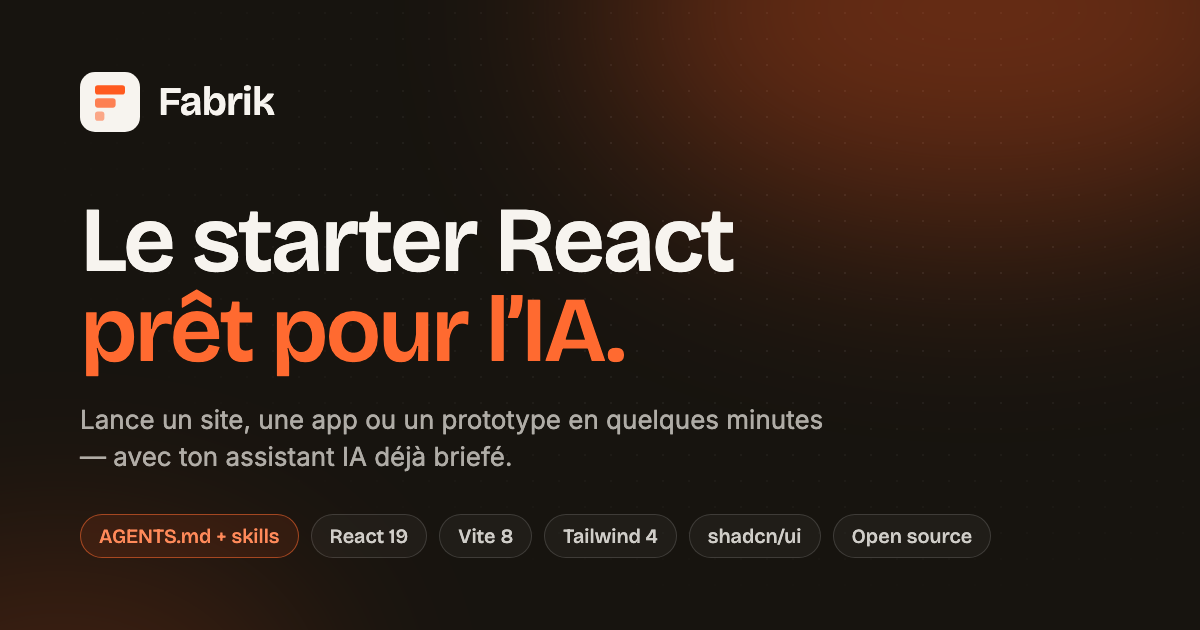
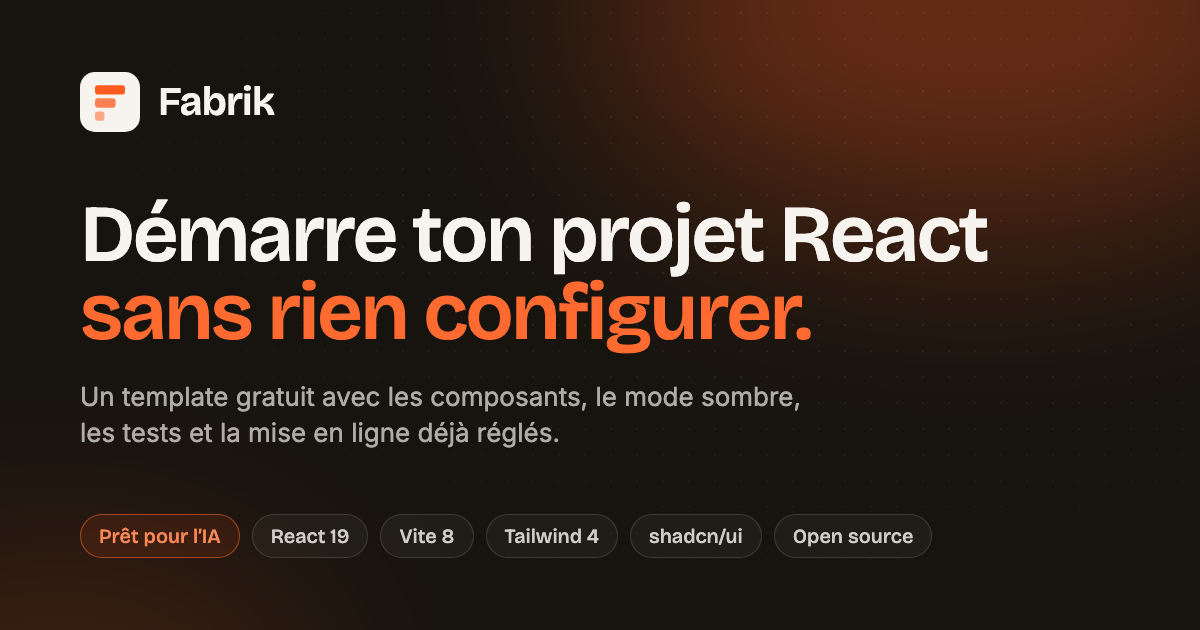
Réécrit les textes du site et du README
- Accroche plus claire : « Démarre ton projet React sans rien configurer »
- Textes des sections reformulés, sans jargon ni tirets longs
- README réécrit avec un ton plus personnel
- Image de partage mise à jour
- Corrige la mise en forme de index.html (CI) et vérifie aussi le HTML au commit

Changed region(s): [[0.0617, 0.3016, 0.8325, 0.754], [0.0617, 0.8143, 0.8325, 0.8746]]

diff --git a/src/routes/index.tsx b/src/routes/index.tsx
@@ -21,33 +21,33 @@ export const Route = createFileRoute('/')({
 const features = [
   {
     icon: Bot,
-    title: 'Prêt pour l’IA',
-    text: 'AGENTS.md, skills et serveur MCP shadcn inclus : Claude, Codex ou Cursor savent comment travailler dans le projet dès la première ligne.',
+    title: 'Pensé pour travailler avec une IA',
+    text: 'Un fichier AGENTS.md explique le projet à ton assistant (Claude, Codex, Cursor…), et des fiches pratiques lui montrent comment ajouter une page ou un composant proprement.',
   },
   {
     icon: Layers,
-    title: 'Composants shadcn/ui',
-    text: 'Des composants accessibles basés sur Base UI, que tu possèdes et modifies librement. Ajoute-en un avec une seule commande.',
+    title: 'Des composants prêts à l’emploi',
+    text: 'Boutons, champs, fenêtres, cartes… basés sur shadcn/ui. Le code est dans ton projet, tu le modifies comme tu veux, et tu en ajoutes d’autres en une commande.',
   },
   {
     icon: RouteIcon,
-    title: 'Routing typé',
-    text: 'TanStack Router génère les routes à partir des fichiers : un fichier dans src/routes, une page, des liens vérifiés par TypeScript.',
+    title: 'Une page, un fichier',
+    text: 'Pour créer une page, tu ajoutes un fichier dans src/routes. Si un lien pointe vers une page qui n’existe pas, le projet te le signale avant la mise en ligne.',
   },
   {
     icon: MoonStar,
-    title: 'Mode sombre',
-    text: 'Thème clair et sombre basé sur des variables CSS, sans flash au chargement. Change une couleur, tout suit.',
+    title: 'Mode clair et sombre',
+    text: 'Les deux thèmes marchent dès le départ, et le site se souvient du choix du visiteur. Pour changer la couleur principale, tu modifies une seule ligne.',
   },
   {
     icon: ShieldCheck,
-    title: 'Qualité intégrée',
-    text: 'ESLint, Prettier, Vitest, hooks de commit et CI GitHub : les erreurs sont attrapées avant d’arriver sur main.',
+    title: 'Moins de bugs en ligne',
+    text: 'Le code est vérifié et mis en forme à chaque commit, et les tests tournent sur GitHub à chaque envoi. Les erreurs se voient avant d’arriver sur le site.',
   },
   {
     icon: Sparkles,
-    title: 'Rapide, vraiment',
-    text: 'Vite 8 et Tailwind CSS 4 : démarrage en moins d’une seconde et rechargement instantané à chaque sauvegarde.',
+    title: 'En ligne en un push',
+    text: 'Le site se publie tout seul sur GitHub Pages dès que tu envoies ton code. Vercel ou Netlify marchent aussi sans réglage particulier.',
   },
 ]
 
@@ -63,16 +63,16 @@ const stack = [
 
 const steps = [
   {
-    title: 'Crée ton projet',
-    text: 'Clique sur « Utiliser ce template » sur GitHub ou copie-le avec degit.',
+    title: 'Copie le template',
+    text: 'Clique sur « Utiliser ce template » sur GitHub, ou lance la commande degit ci-dessus.',
   },
   {
-    title: 'Lance-le',
-    text: 'npm install puis npm run dev : ton site tourne sur localhost.',
+    title: 'Lance le site',
+    text: 'npm install, puis npm run dev. Ton site s’ouvre sur ton ordinateur et se met à jour à chaque sauvegarde.',
   },
   {
-    title: 'Construis avec ton IA',
-    text: 'Décris ce que tu veux à ton assistant : il suit les conventions du projet.',
+    title: 'Construis ton projet',
+    text: 'Modifie les pages toi-même ou demande à ton assistant IA : il suit les règles du projet.',
   },
 ]
 
@@ -108,8 +108,8 @@ function Hero() {
           </span>
 
           <h1 className="mt-6 text-5xl leading-[1.02] font-semibold tracking-tight sm:text-6xl lg:text-7xl">
-            Fabrique ton prochain projet{' '}
-            <span className="text-brand">en minutes.</span>
+            Démarre ton projet React{' '}
+            <span className="text-brand">sans rien configurer.</span>
           </h1>
 
           <p className="mt-6 max-w-xl text-lg text-pretty text-muted-foreground">
@@ -161,7 +161,7 @@ function TerminalPreview() {
           <span className="size-3 rounded-full bg-foreground/15" />
           <span className="size-3 rounded-full bg-foreground/15" />
           <span className="ml-2 font-mono text-xs text-muted-foreground">
-            mon-projet — zsh
+            mon-projet · zsh
           </span>
         </div>
         <pre className="overflow-x-auto p-5 font-mono text-[13px] leading-7">
@@ -233,9 +233,9 @@ function Features() {
   return (
     <section className="mx-auto max-w-6xl px-4 py-24 sm:px-6">
       <SectionHeading
-        eyebrow="Ce qui est inclus"
-        title="Tout ce qu’il faut, rien de trop."
-        text="Les choix ennuyeux sont déjà faits. Tu passes directement à la partie intéressante."
+        eyebrow="Ce qu’il y a dedans"
+        title="Tout ce qu’on règle d’habitude au début d’un projet."
+        text="Fabrik s’occupe de la configuration pour que tu commences directement par ce qui compte : ton site."
       />
 
       <div className="mt-14 grid gap-px overflow-hidden rounded-3xl border border-border bg-border sm:grid-cols-2 lg:grid-cols-3">
@@ -261,10 +261,7 @@ function Features() {
 function Steps() {
   return (
     <section className="mx-auto max-w-6xl px-4 pb-24 sm:px-6">
-      <SectionHeading
-        eyebrow="Démarrage"
-        title="De zéro à en ligne en trois étapes."
-      />
+      <SectionHeading eyebrow="Démarrage" title="Comment ça marche" />
       <ol className="mt-14 grid gap-6 md:grid-cols-3">
         {steps.map((step, i) => (
           <li
@@ -292,11 +289,11 @@ function FinalCta() {
           className="pointer-events-none absolute -bottom-32 left-1/2 h-64 w-[36rem] -translate-x-1/2 rounded-full bg-brand/40 blur-3xl"
         />
         <h2 className="relative text-3xl font-semibold tracking-tight sm:text-5xl">
-          À toi de fabriquer.
+          Prêt à commencer ?
         </h2>
         <p className="relative mx-auto mt-4 max-w-lg text-background/70">
-          Gratuit, open source, et pensé pour être modifié. Prends-le, casse-le,
-          fais-en le tien.
+          C’est gratuit et open source. Utilise-le pour un site perso, un
+          prototype ou un vrai produit, et adapte-le à ta façon.
         </p>
         <div className="relative mt-8 flex flex-wrap justify-center gap-3">
           <a

diff --git a/index.html b/index.html
@@ -6,26 +6,20 @@
     <meta name="viewport" content="width=device-width, initial-scale=1.0" />
     <meta
       name="description"
-      content="Fabrik — le starter React prêt pour l’IA : Vite, Tailwind, shadcn/ui, TanStack Router."
+      content="Fabrik, un template React gratuit et open source : composants, mode sombre, tests et mise en ligne déjà configurés."
     />
-    <title>Fabrik — le starter React prêt pour l’IA</title>
+    <title>Fabrik · template React open source</title>
     <meta name="theme-color" content="#17140f" />
 
     <!-- Aperçu lors d'un partage (LinkedIn, X, Discord, Slack…) -->
     <meta property="og:type" content="website" />
     <meta property="og:site_name" content="Fabrik" />
-    <meta
-      property="og:title"
-      content="Fabrik — le starter React prêt pour l’IA"
-    />
+    <meta property="og:title" content="Fabrik · template React open source" />
     <meta
       property="og:description"
-      content="Lance un site, une app ou un prototype en quelques minutes, avec ton assistant IA déjà briefé."
+      content="Un point de départ pour tes projets React, avec tout ce qu’on configure d’habitude à la main déjà en place."
     />
-    <meta
-      property="og:url"
-      content="https://davision0102.github.io/fabrik/"
-    />
+    <meta property="og:url" content="https://davision0102.github.io/fabrik/" />
     <meta
       property="og:image"
       content="https://davision0102.github.io/fabrik/og-image.png"

diff --git a/src/config/site.ts b/src/config/site.ts
@@ -1,12 +1,12 @@
 /**
- * Identité du projet — c'est le seul endroit à modifier pour renommer le site.
+ * Identité du projet. C'est le seul endroit à modifier pour renommer le site.
  * Le nom, les textes principaux et les liens sont lus d'ici partout dans l'app.
  */
 export const site = {
   name: 'Fabrik',
-  tagline: 'Le starter React prêt pour l’IA',
+  tagline: 'Template React gratuit et open source',
   description:
-    'Une base moderne, propre et documentée pour lancer un site, une app ou un prototype en quelques minutes — avec ton assistant IA déjà briefé.',
+    'Fabrik est une base de départ pour tes sites et tes apps React. Les composants, le mode sombre, les tests et la mise en ligne sont déjà réglés, et ton assistant IA sait comment travailler dedans.',
   repo: 'davision0102/fabrik',
   /** Adresse de la démo en ligne (GitHub Pages, voir le skill `deploy`). */
   demoUrl: 'https://davision0102.github.io/fabrik/',

diff --git a/README.md b/README.md
@@ -4,34 +4,41 @@
 
 # Fabrik
 
-**Le starter React prêt pour l’IA.**
-Une base moderne, propre et documentée pour lancer un site, une app ou un prototype en quelques minutes — avec ton assistant IA déjà briefé.
+Un template React gratuit pour démarrer un site ou une app sans passer une heure à tout configurer.
 
 [![CI](https://github.com/davision0102/fabrik/actions/workflows/ci.yml/badge.svg)](https://github.com/davision0102/fabrik/actions/workflows/ci.yml)
 [![Deploy](https://github.com/davision0102/fabrik/actions/workflows/deploy.yml/badge.svg)](https://davision0102.github.io/fabrik/)
-![React 19](https://img.shields.io/badge/React-19-149eca)
-![Vite 8](https://img.shields.io/badge/Vite-8-646cff)
-![Tailwind CSS 4](https://img.shields.io/badge/Tailwind_CSS-4-38bdf8)
 ![Licence MIT](https://img.shields.io/badge/licence-MIT-ff5a1f)
 
-[**Voir la démo**](https://davision0102.github.io/fabrik/) · [**Utiliser ce template →**](https://github.com/davision0102/fabrik/generate)
+[Voir la démo](https://davision0102.github.io/fabrik/) · [Utiliser ce template](https://github.com/davision0102/fabrik/generate)
 
 <img src="docs/screenshot.png" alt="Page d'accueil de Fabrik" width="860" />
 
 </div>
 
-## Pourquoi Fabrik
+## Pourquoi j'ai fait ça
 
-Démarrer un projet, c'est souvent une heure de configuration avant d'écrire la première ligne utile. Fabrik fait les choix ennuyeux à ta place et prépare le terrain pour que ton assistant IA (Claude Code, Codex, Cursor…) travaille proprement dès le départ.
+À chaque nouveau projet, je refaisais la même chose : installer React, régler Tailwind, ajouter des composants, le mode sombre, le lint, les tests, la mise en ligne… Avant d'écrire la moindre ligne utile, la matinée était passée.
 
-- **Prêt pour l’IA** — `AGENTS.md`, des skills pas à pas et le serveur MCP shadcn sont inclus.
-- **Composants shadcn/ui** — accessibles, basés sur Base UI, et entièrement modifiables.
-- **Routing typé** — un fichier dans `src/routes/`, une page ; les liens cassés ne compilent pas.
-- **Mode sombre** — thème clair/sombre par variables CSS, sans flash au chargement.
-- **Qualité intégrée** — ESLint, Prettier, Vitest, hooks de commit et CI GitHub.
-- **Rapide** — Vite 8 et Tailwind CSS 4, rechargement instantané.
+Fabrik, c'est cette base, faite une bonne fois pour toutes. Je l'utilise pour mes propres projets et je la partage telle quelle.
+
+J'y ai aussi ajouté ce qui me manquait quand je code avec une IA : des instructions claires pour que l'assistant comprenne le projet au lieu de deviner.
+
+## Ce qu'il y a dedans
+
+- React 19, TypeScript, Vite 8 et Tailwind CSS 4
+- Des composants [shadcn/ui](https://ui.shadcn.com) : boutons, champs, fenêtres, cartes. Ils sont dans ton projet, tu les modifies librement.
+- Des pages créées à partir des fichiers grâce à TanStack Router : un fichier dans `src/routes/` donne une page.
+- Un mode clair et un mode sombre, sans clignotement au chargement
+- ESLint, Prettier et Vitest, lancés automatiquement à chaque commit et sur GitHub
+- Une mise en ligne automatique sur GitHub Pages
+- Un fichier `AGENTS.md` et 8 fiches pratiques pour les assistants IA (plus de détails plus bas)
 
 ## Démarrer
+
+Le plus simple : clique sur **Use this template** en haut de cette page, puis clone ton nouveau dépôt.
+
+Tu peux aussi le copier en ligne de commande :
 
 ```bash
 npx degit davision0102/fabrik mon-projet
@@ -40,75 +47,74 @@ npm install
 npm run dev
 ```
 
-Le site tourne sur [localhost:5173](http://localhost:5173). Tu peux aussi cliquer sur **Use this template** en haut de la page GitHub.
+Le site s'ouvre sur [localhost:5173](http://localhost:5173) et se recharge à chaque sauvegarde.
 
-Puis renomme le projet : modifie `src/config/site.ts`, ou demande simplement à ton assistant IA « renomme le projet en … » — il suivra le skill `rebrand`.
+Pour lui donner ton nom, ouvre `src/config/site.ts` : le nom, la description et les liens sont tous au même endroit.
 
-## Commandes
+## Les commandes
 
-| Commande          | Rôle                                           |
-| ----------------- | ---------------------------------------------- |
-| `npm run dev`     | serveur de développement                       |
-| `npm run build`   | vérification TypeScript + build production     |
-| `npm run preview` | prévisualiser le build                         |
-| `npm run lint`    | ESLint                                         |
-| `npm run format`  | Prettier (trie aussi les classes Tailwind)     |
-| `npm test`        | tests Vitest (`npm run test:watch` en continu) |
+| Commande          | Ce qu'elle fait                                         |
+| ----------------- | ------------------------------------------------------- |
+| `npm run dev`     | lance le site en local                                  |
+| `npm run build`   | vérifie le code et prépare la version à mettre en ligne |
+| `npm run preview` | affiche cette version en local                          |
+| `npm run lint`    | cherche les erreurs dans le code                        |
+| `npm run format`  | remet le code en forme                                  |
+| `npm test`        | lance les tests                                         |
 
 ## Travailler avec une IA
 
-Fabrik est pensé pour être utilisé avec un assistant de code.
+Si tu utilises Claude Code, Codex, Cursor ou Copilot, ils lisent le fichier `AGENTS.md` à la racine. Il leur explique la structure du projet, les commandes et les règles à suivre, comme les couleurs du thème ou l'endroit où mettre une nouvelle page.
 
-| Fichier           | Rôle                                                                |
-| ----------------- | ------------------------------------------------------------------- |
-| `AGENTS.md`       | les règles du projet, lues par Claude Code, Codex, Cursor, Copilot… |
-| `CLAUDE.md`       | renvoie vers `AGENTS.md` pour Claude Code                           |
-| `.agents/skills/` | recettes pas à pas (`.claude/skills` pointe vers ce dossier)        |
-| `.mcp.json`       | serveur MCP shadcn : l'IA cherche et installe les composants        |
+Pour les tâches courantes, il y a aussi des fiches pas à pas dans `.agents/skills/` :
 
-Skills inclus :
+| Fiche           | Pour…                                                  |
+| --------------- | ------------------------------------------------------ |
+| `add-page`      | créer une page et l'ajouter au menu                    |
+| `add-component` | installer un composant ou en créer un                  |
+| `add-form`      | faire un formulaire avec vérification des champs       |
+| `fetch-data`    | afficher des données venant d'une API                  |
+| `add-test`      | écrire un test                                         |
+| `design-system` | respecter les couleurs, les polices et les espacements |
+| `deploy`        | mettre le site en ligne                                |
+| `rebrand`       | renommer le projet et changer son identité             |
 
-- **add-page** — créer une page et l'ajouter à la navigation
-- **add-component** — installer un composant shadcn/ui ou en créer un
-- **design-system** — couleurs, polices et règles visuelles
-- **rebrand** — renommer le projet et changer son identité
-- **add-test** — écrire un test Vitest + Testing Library
-- **add-form** — formulaire avec validation (react-hook-form + zod)
-- **fetch-data** — charger des données d'une API
-- **deploy** — mettre le site en ligne
+Concrètement, tu peux demander « ajoute une page tarifs avec trois offres » et l'assistant suivra la fiche `add-page` au lieu d'improviser.
 
-Essaie par exemple : _« ajoute une page tarifs avec trois offres »_.
+Le fichier `.mcp.json` connecte aussi l'assistant au catalogue shadcn, pour qu'il puisse trouver et installer des composants tout seul.
 
 ## Mettre en ligne
 
-Le site se publie tout seul sur **GitHub Pages** à chaque push sur `main` (`.github/workflows/deploy.yml`). Une seule action à faire : **Settings → Pages → Source : GitHub Actions**.
+Le site se publie sur GitHub Pages à chaque envoi sur `main`. Il y a un seul réglage à faire, une fois : dans ton dépôt, va dans **Settings › Pages** et choisis **GitHub Actions** comme source.
 
-Vercel, Netlify et Cloudflare Pages fonctionnent aussi sans configuration : le skill `deploy` détaille chaque option.
+Vercel, Netlify et Cloudflare Pages fonctionnent aussi : tu importes le dépôt et ils détectent tout seuls qu'il s'agit d'un projet Vite. La fiche `deploy` explique les petites différences.
 
-## Structure
+## Comment c'est rangé
 
 ```
 src/
   config/site.ts      nom, textes et liens du projet
-  routes/             une page = un fichier
-  components/         composants de l'app
-  components/ui/      composants shadcn/ui
-  hooks/              hooks React
-  index.css           thème : couleurs, polices, arrondis
-.agents/skills/       skills pour l'IA
+  routes/             les pages (un fichier = une page)
+  components/         les composants du site
+  components/ui/      les composants shadcn/ui
+  hooks/              la logique réutilisable
+  index.css           le thème : couleurs, polices, arrondis
+.agents/skills/       les fiches pour les assistants IA
 ```
 
 ## Personnaliser
 
-- **Nom et textes** : `src/config/site.ts`
-- **Couleur signature** : `--brand` dans `src/index.css` (clair et sombre)
-- **Polices** : `--font-heading` et `--font-sans` dans `src/index.css`
-- **Nouveau composant** : `npx shadcn@latest add <nom>`, visible ensuite sur la page `/ui`
+- **Le nom et les textes** se trouvent dans `src/config/site.ts`.
+- **La couleur principale** est la variable `--brand` dans `src/index.css`. Il y en a une pour le mode clair et une pour le mode sombre.
+- **Les polices** se règlent avec `--font-heading` et `--font-sans`, dans le même fichier.
+- **Un nouveau composant** s'ajoute avec `npx shadcn@latest add <nom>`. Il apparaît ensuite sur la page `/ui` du site.
 
-## Stack
+## Contribuer
 
-[React 19](https://react.dev) · [TypeScript](https://www.typescriptlang.org) · [Vite 8](https://vite.dev) · [Tailwind CSS 4](https://tailwindcss.com) · [shadcn/ui](https://ui.shadcn.com) · [Base UI](https://base-ui.com) · [TanStack Router](https://tanstack.com/router) · [Vitest](https://vitest.dev) · [Lefthook](https://lefthook.dev)
+Une idée, un bug, une fiche qui manque ? Ouvre une issue ou une pull request, je regarde tout.
+
+Les modifications passent par une pull request : la branche `main` est protégée et les vérifications automatiques doivent être au vert avant de fusionner.
 
 ## Licence
 
-[MIT](LICENSE) — prends-le, modifie-le, fais-en le tien.
+MIT. Tu peux l'utiliser pour ce que tu veux, y compris des projets commerciaux.
